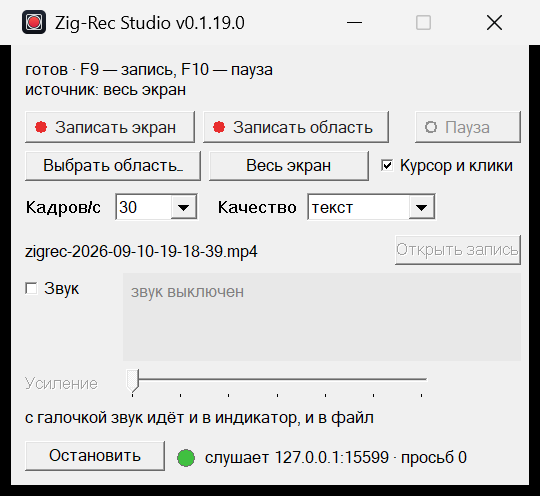
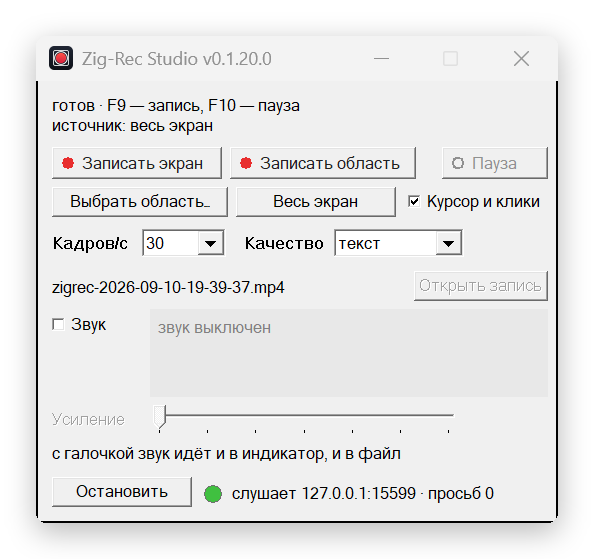
Снимок экрана для README: аккуратный, и делается инструментом
Прямой снимок окна выглядел вырезанным ножницами: вокруг чёрная кайма,
углы прямые, полей нет, кнопка «Открыть запись» упиралась в край окна.

tools/make_screenshot.py снимает окно и приводит снимок в порядок: режет
невидимую рамку изменения размера по настоящим границам от системы,
скругляет углы, кладёт на прозрачный холст с мягкой тенью и полями.

Границы берём у системы, а не ищем по цвету: заголовок окна светлый и
тянется во всю ширину снимка, поэтому «первый нечёрный столбец» находится
сразу, а чёрная полоса слева остаётся. Так и было.

Кнопка «Открыть запись» сдвинута от края.

Claude-Session: https://claude.ai/code/session_01RcKoXewxDNzvgiNtWFwn5v

diff --git a/tools/make_screenshot.py b/tools/make_screenshot.py
@@ -1,0 +1,166 @@
+# -*- coding: utf-8 -*-
+r"""Снимок окна для README: аккуратный, а не «как сфотографировалось».
+
+Прямой снимок окна выглядит плохо по трём причинам, и все три лечатся здесь.
+
+1. `GetWindowRect` отдаёт прямоугольник вместе с невидимой рамкой изменения
+   размера. Рисовать в ней нечего, и в снимке она выходит чёрной каймой.
+   Настоящие границы знает система — `DwmGetWindowAttribute`; по ним и режем.
+   Искать край по цвету бесполезно: заголовок окна светлый и тянется во всю
+   ширину снимка, так что «первый нечёрный столбец» находится сразу, а полоса
+   слева остаётся.
+2. У окна Windows скруглённые углы, а снимок отдаёт прямые. Скругляем сами.
+3. Снимок без полей и тени выглядит вырезанным ножницами. Кладём окно
+   на прозрачный холст с мягкой тенью и полями.
+
+Фон прозрачный нарочно: на GitHub страница бывает и светлая, и тёмная,
+и белая подложка в тёмной теме смотрелась бы заплаткой.
+
+Запуск (окно должно быть открыто):
+    python tools\make_screenshot.py
+"""
+import io
+import os
+import subprocess
+import sys
+
+from PIL import Image, ImageDraw, ImageFilter
+
+HERE = os.path.dirname(os.path.abspath(__file__))
+REPO = os.path.dirname(HERE)
+RAW = os.path.join(REPO, ".check", "window-raw.png")
+INSET = os.path.join(REPO, ".check", "window-inset.txt")
+OUT = os.path.join(REPO, "assets", "screenshot.png")
+
+# Снимок окна делает PowerShell: у него под рукой PrintWindow, который берёт
+# содержимое окна, даже если сверху что-то лежит.
+GRAB = r'''
+Add-Type -AssemblyName System.Drawing
+$src = @"
+using System;using System.Text;using System.Runtime.InteropServices;using System.Collections.Generic;
+public class Grab {
+  public delegate bool EnumProc(IntPtr h, IntPtr p);
+  [DllImport("user32.dll")] public static extern bool EnumWindows(EnumProc cb, IntPtr p);
+  [DllImport("user32.dll", CharSet=CharSet.Unicode)] public static extern int GetClassNameW(IntPtr h, StringBuilder s, int n);
+  [DllImport("user32.dll")] public static extern bool IsWindowVisible(IntPtr h);
+  [DllImport("user32.dll")] public static extern bool GetWindowRect(IntPtr h, out RECT r);
+  [DllImport("dwmapi.dll")] public static extern int DwmGetWindowAttribute(IntPtr h, int a, out RECT r, int size);
+  [DllImport("user32.dll")] public static extern bool PrintWindow(IntPtr h, IntPtr dc, uint flags);
+  [DllImport("user32.dll")] public static extern bool SetProcessDPIAware();
+  [StructLayout(LayoutKind.Sequential)] public struct RECT { public int Left,Top,Right,Bottom; }
+  public static List<IntPtr> F = new List<IntPtr>();
+  public static void Scan(string cls) { F.Clear();
+    EnumWindows(delegate(IntPtr h, IntPtr p) { var sb=new StringBuilder(256); GetClassNameW(h,sb,256);
+      if (sb.ToString()==cls && IsWindowVisible(h)) F.Add(h); return true; }, IntPtr.Zero); }
+}
+"@
+Add-Type -TypeDefinition $src
+[Grab]::SetProcessDPIAware() | Out-Null
+[Grab]::Scan("ZigRecMain")
+if ([Grab]::F.Count -eq 0) { Write-Error "окно не найдено"; exit 1 }
+$h = [Grab]::F[0]
+$r = New-Object Grab+RECT
+[Grab]::GetWindowRect($h, [ref]$r) | Out-Null
+$w = $r.Right - $r.Left; $ht = $r.Bottom - $r.Top
+$bmp = New-Object System.Drawing.Bitmap($w, $ht)
+$g = [System.Drawing.Graphics]::FromImage($bmp)
+$dc = $g.GetHdc()
+[Grab]::PrintWindow($h, $dc, 2) | Out-Null
+$g.ReleaseHdc($dc)
+$bmp.Save("%OUT%")
+# Настоящие границы окна: без невидимой рамки изменения размера.
+$f = New-Object Grab+RECT
+$ok = [Grab]::DwmGetWindowAttribute($h, 9, [ref]$f, 16)
+if ($ok -eq 0) {
+  "$($f.Left - $r.Left) $($f.Top - $r.Top) $($r.Right - $f.Right) $($r.Bottom - $f.Bottom)" |
+    Set-Content -Path "%INSET%" -Encoding ascii
+}
+'''
+
+
+def grab(path, inset_path):
+    os.makedirs(os.path.dirname(path), exist_ok=True)
+    if os.path.isfile(inset_path):
+        os.remove(inset_path)
+    script = GRAB.replace("%OUT%", path.replace("\\", "\\\\"))
+    script = script.replace("%INSET%", inset_path.replace("\\", "\\\\"))
+    out = subprocess.run(
+        ["powershell", "-NoProfile", "-ExecutionPolicy", "Bypass", "-Command", script],
+        capture_output=True, text=True, encoding="utf-8", errors="replace",
+    )
+    if not os.path.isfile(path):
+        sys.stderr.write(out.stdout + out.stderr)
+        raise SystemExit("не удалось снять окно: оно открыто?")
+    if not os.path.isfile(inset_path):
+        return (0, 0, 0, 0)
+    with io.open(inset_path, encoding="ascii") as f:
+        return tuple(int(v) for v in f.read().split())
+
+
+def crop_black_border(img):
+    """Убрать чёрную кайму невидимой рамки окна.
+
+    Ищем первую строку и первый столбец, где есть хоть что-то не чёрное.
+    Порог не нулевой: край рамки бывает не идеально чёрным.
+    """
+    grey = img.convert("L")
+    w, h = grey.size
+    px = grey.load()
+    threshold = 24
+
+    def row_has_content(y):
+        return any(px[x, y] > threshold for x in range(0, w, 3))
+
+    def col_has_content(x):
+        return any(px[x, y] > threshold for y in range(0, h, 3))
+
+    top = next((y for y in range(h) if row_has_content(y)), 0)
+    bottom = next((y for y in range(h - 1, -1, -1) if row_has_content(y)), h - 1)
+    left = next((x for x in range(w) if col_has_content(x)), 0)
+    right = next((x for x in range(w - 1, -1, -1) if col_has_content(x)), w - 1)
+    return img.crop((left, top, right + 1, bottom + 1))
+
+
+def round_corners(img, radius):
+    mask = Image.new("L", img.size, 0)
+    ImageDraw.Draw(mask).rounded_rectangle([0, 0, img.size[0] - 1, img.size[1] - 1],
+                                           radius=radius, fill=255)
+    out = img.convert("RGBA")
+    out.putalpha(mask)
+    return out
+
+
+def with_shadow(img, pad=36, blur=14, offset=8, opacity=70):
+    """Мягкая тень под окном на прозрачном холсте."""
+    w, h = img.size
+    canvas = Image.new("RGBA", (w + pad * 2, h + pad * 2), (0, 0, 0, 0))
+
+    shadow = Image.new("RGBA", canvas.size, (0, 0, 0, 0))
+    ImageDraw.Draw(shadow).rounded_rectangle(
+        [pad, pad + offset, pad + w, pad + h + offset],
+        radius=10, fill=(0, 0, 0, opacity),
+    )
+    shadow = shadow.filter(ImageFilter.GaussianBlur(blur))
+
+    canvas.alpha_composite(shadow)
+    canvas.alpha_composite(img, (pad, pad))
+    return canvas
+
+
+def main():
+    inset = grab(RAW, INSET)
+    raw = Image.open(RAW).convert("RGB")
+    w, h = raw.size
+    left, top, right, bottom = inset
+    body = raw.crop((left, top, w - right, h - bottom))
+    # Подстраховка: если система границ не дала, режем по цвету.
+    if inset == (0, 0, 0, 0):
+        body = crop_black_border(raw)
+    rounded = round_corners(body, radius=10)
+    final = with_shadow(rounded)
+    final.save(OUT)
+    print("снимок:", OUT, final.size, "было", raw.size, "срезано", inset)
+
+
+if __name__ == "__main__":
+    main()
